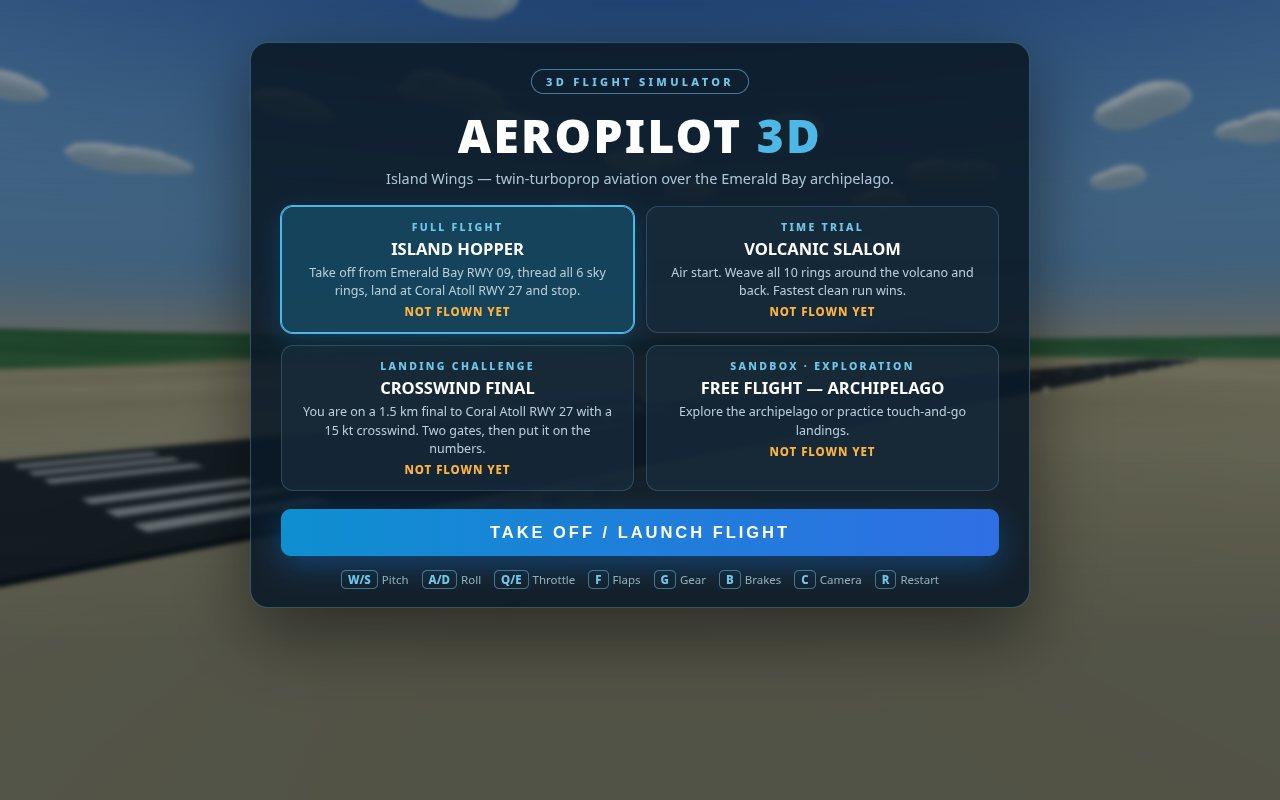
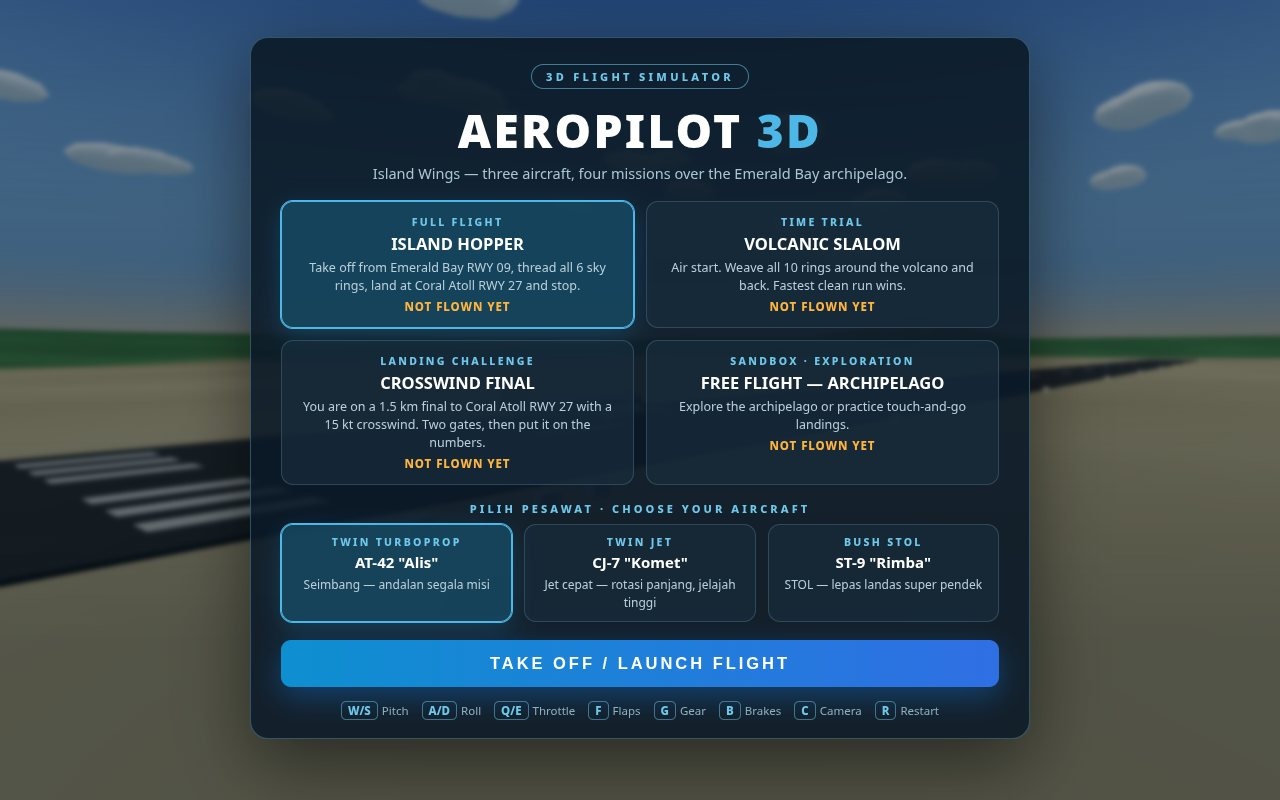
Aircraft selection: 3 flyable craft (AT-42 Alis turboprop, CJ-7 Komet jet, ST-9 Rimba STOL) with per-craft physics specs and menu selector

Changed region(s): [[0.1875, 0.625, 0.8125, 0.9688], [0.1875, 0.0312, 0.8125, 0.5938]]

diff --git a/game/src/main.js b/game/src/main.js
@@ -1,6 +1,6 @@
 // AeroPilot 3D conductor: loop, input, cameras, missions, debrief.
 import * as THREE from 'three';
-import { MISSIONS, mission, airport, threshold, PLANE } from './config.js';
+import { MISSIONS, mission, airport, threshold, PLANE, AIRCRAFT, craftSpec } from './config.js';
 import { buildWorld, setRings, paintRings, paintPapi, surfaceAt } from './world.js';
 import { buildAircraft, poseAircraft } from './aircraft.js';
 import { stepPlane } from './physics.js';
@@ -26,8 +26,16 @@ document.body.appendChild(renderer.domElement);
 const scene = new THREE.Scene();
 const camera = new THREE.PerspectiveCamera(58, innerWidth / innerHeight, 0.5, 40000);
 const world = buildWorld(scene);
-const craft = buildAircraft();
+let selectedCraft = 'alis';
+let craft = buildAircraft(craftSpec(selectedCraft));
 scene.add(craft);
+function setCraft(id) {
+  selectedCraft = id;
+  scene.remove(craft);
+  craft = buildAircraft(craftSpec(id));
+  scene.add(craft);
+  if (plane) poseAircraft(craft, plane, null);
+}
 initHud();
 
 const BEST_KEY = 'aeropilot-best-v1';
@@ -45,7 +53,7 @@ function showMenu() {
   document.getElementById('menu').style.display = 'flex';
   document.getElementById('debrief').style.display = 'none';
   const m = mission('island_hopper');
-  plane = spawnFor(m);
+  plane = spawnFor(m, craftSpec(selectedCraft));
   st = null; ap = null;
   setRings(scene, world, []);
   poseAircraft(craft, plane, null);
@@ -70,9 +78,25 @@ function buildMenu() {
   }
 }
 document.getElementById('btn-launch').onclick = () => { Sfx.init(); startMission(selectedId, false); };
+function buildCraftMenu() {
+  const wrap = document.getElementById('craft-cards');
+  wrap.innerHTML = '';
+  for (const a of AIRCRAFT) {
+    const card = document.createElement('div');
+    card.className = 'card craft' + (a.id === selectedCraft ? ' selected' : '');
+    card.dataset.id = a.id;
+    card.innerHTML = `<div class="ctype">${a.kind.toUpperCase()}</div><h3>${a.name}</h3><p>${a.tag}</p>`;
+    card.onclick = () => {
+      setCraft(a.id);
+      wrap.querySelectorAll('.card').forEach((c) => c.classList.toggle('selected', c.dataset.id === selectedCraft));
+      Sfx.init();
+    };
+    wrap.appendChild(card);
+  }
+}
 function startMission(id, autopilot) {
   const m = mission(id);
-  plane = spawnFor(m);
+  plane = spawnFor(m, craftSpec(selectedCraft));
   st = createMission(m);
   ap = createAutopilot();
   useAutopilot = autopilot;
@@ -218,6 +242,7 @@ function frame() {
 }
 
 buildMenu();
+buildCraftMenu();
 if (shot) {
   if (shot.menu) showMenu();
   else {

diff --git a/game/index.html b/game/index.html
@@ -38,7 +38,12 @@
   #hud-panel { position: absolute; bottom: 12px; left: 50%; transform: translateX(-50%); }
   #cross { position: absolute; top: 50%; left: 50%; transform: translate(-50%, -50%); color: rgba(255, 220, 150, 0.85); font-size: 15px; }
   /* Menu + debrief */
-  .overlay { position: fixed; inset: 0; display: flex; flex-direction: column; align-items: center; justify-content: center; padding-bottom: 150px; background: linear-gradient(180deg, rgba(6,20,30,0.30) 0%, rgba(6,20,30,0.55) 80%); backdrop-filter: blur(2.5px); z-index: 5; }
+  .overlay { position: fixed; inset: 0; display: flex; flex-direction: column; align-items: center; justify-content: center; padding-bottom: 24px; background: linear-gradient(180deg, rgba(6,20,30,0.30) 0%, rgba(6,20,30,0.55) 80%); backdrop-filter: blur(2.5px); z-index: 5; }
+  .craft-label { margin: 16px 0 8px; font-size: 11px; font-weight: 800; letter-spacing: 0.28em; color: #6ec8ec; }
+  .cards.craft { grid-template-columns: 1fr 1fr 1fr; }
+  .card.craft { padding: 10px 12px; }
+  .card.craft h3 { font-size: 15px; }
+  .card.craft p { min-height: 0; font-size: 12px; }
   #menu-panel { width: 780px; max-width: 94vw; padding: 26px 30px 20px; text-align: center; pointer-events: auto; border-radius: 18px; background: rgba(10, 24, 38, 0.88); border: 1px solid rgba(110, 190, 220, 0.35); box-shadow: 0 24px 70px rgba(0,0,0,0.5); }
   #menu-panel .pill { display: inline-block; font-size: 11px; font-weight: 800; letter-spacing: 0.3em; color: #6ec8ec; border: 1px solid rgba(110,200,236,0.55); border-radius: 20px; padding: 4px 14px; margin-bottom: 10px; }
   #menu-panel h1 { font-size: 46px; font-weight: 900; letter-spacing: 0.05em; color: #fff; }
@@ -99,8 +104,10 @@
     <div id="menu-panel">
       <div class="pill">3D FLIGHT SIMULATOR</div>
       <h1>AEROPILOT <span>3D</span></h1>
-      <div class="sub">Island Wings — twin-turboprop aviation over the Emerald Bay archipelago.</div>
+      <div class="sub">Island Wings — three aircraft, four missions over the Emerald Bay archipelago.</div>
       <div class="cards" id="menu-cards"></div>
+      <div class="craft-label">PILIH PESAWAT · CHOOSE YOUR AIRCRAFT</div>
+      <div class="cards craft" id="craft-cards"></div>
       <button id="btn-launch">TAKE OFF / LAUNCH FLIGHT</button>
       <div class="keys">
         <span><b>W/S</b>Pitch</span><span><b>A/D</b>Roll</span><span><b>Q/E</b>Throttle</span><span><b>F</b>Flaps</span><span><b>G</b>Gear</span><span><b>B</b>Brakes</span><span><b>C</b>Camera</span><span><b>R</b>Restart</span>

diff --git a/game/src/physics.js b/game/src/physics.js
@@ -14,11 +14,12 @@ export function angDiff(a, b) {
 
 export function stallSpeed(p) {
   const flapFactor = [1, 0.93, 0.85][p.flaps] || 1;
-  return PLANE.stall * flapFactor * (1 + p.damage * 0.002);
+  return p.spec.stall * flapFactor * (1 + p.damage * 0.002);
 }
 
-export function createPlane(spawn) {
+export function createPlane(spawn, spec) {
   return {
+    spec: spec || PLANE,
     x: spawn.x, y: spawn.y, z: spawn.z,
     heading: spawn.heading || 0, pitch: 0, bank: 0,
     speed: spawn.speed || 0, vy: 0, groundSpeed: spawn.speed || 0,
@@ -40,12 +41,12 @@ export function stepPlane(p, input, dt, groundYAt, wind) {
   if (input.throttleSet !== undefined) p.throttle = clamp(input.throttleSet, 0, 1);
   p.gearT = clamp(p.gearT + (p.gearDown ? dt / 2.2 : -dt / 2.2), 0, 1);
   const gearOut = p.gearT > 0.85;
-  const clearance = gearOut ? PLANE.gearHeight : PLANE.bellyHeight;
+  const clearance = gearOut ? p.spec.gearHeight : p.spec.bellyHeight;
   const groundY = groundYAt(p.x, p.z) + clearance;
 
   if (p.onGround) {
-    const thrustA = PLANE.thrust * p.throttle * (1 - p.damage * 0.004);
-    const dragA = PLANE.drag * p.groundSpeed * p.groundSpeed * 0.06 + (input.brake ? 5.2 : 0.3);
+    const thrustA = p.spec.thrust * p.throttle * (1 - p.damage * 0.004);
+    const dragA = p.spec.drag * p.groundSpeed * p.groundSpeed * 0.06 + (input.brake ? 5.2 : 0.3);
     p.groundSpeed = Math.max(0, p.groundSpeed + (thrustA - dragA * Math.sign(p.groundSpeed || 1)) * dt);
     if (p.throttle < 0.03 && p.groundSpeed < 0.05) p.groundSpeed = 0;
     p.speed = p.groundSpeed;
@@ -83,8 +84,8 @@ export function stepPlane(p, input, dt, groundYAt, wind) {
   p.pitch += clamp(targetPitch - p.pitch, -1.7 * pitchAuth * dt, 1.7 * pitchAuth * dt);
   if (liftFrac < 0.86) p.pitch -= (0.86 - liftFrac) * 0.55 * dt; // stall nose-drop
 
-  const thrustA = PLANE.thrust * p.throttle * (1 - p.damage * 0.004);
-  const dragK = PLANE.drag * (1 + p.flaps * 0.38) * (gearOut ? 1.22 : 1);
+  const thrustA = p.spec.thrust * p.throttle * (1 - p.damage * 0.004);
+  const dragK = p.spec.drag * (1 + p.flaps * 0.38) * (gearOut ? 1.22 : 1);
   const accel = thrustA - dragK * p.speed * p.speed * 0.055 - Math.sin(p.pitch) * 9.81 * clamp(liftFrac, 0, 1);
   p.speed = Math.max(0, p.speed + accel * dt);
 

diff --git a/game/src/aircraft.js b/game/src/aircraft.js
@@ -8,10 +8,11 @@ function mat(color, rough = 0.45, metal = 0.35) {
 function box(w, h, d, m) { const x = new THREE.Mesh(new THREE.BoxGeometry(w, h, d), m); return x; }
 function cyl(rt, rb, h, m, seg = 14) { const x = new THREE.Mesh(new THREE.CylinderGeometry(rt, rb, h, seg), m); return x; }
 
-export function buildAircraft() {
+export function buildAircraft(spec) {
+  const S = spec || PLANE;
   const g = new THREE.Group();
-  const body = mat(PLANE.colorBody), accent = mat(PLANE.colorAccent, 0.4, 0.4),
-    tailM = mat(PLANE.colorTail, 0.45, 0.3), dark = mat(0x1c2733, 0.25, 0.5),
+  const body = mat(S.colorBody), accent = mat(S.colorAccent, 0.4, 0.4),
+    tailM = mat(S.colorTail, 0.45, 0.3), dark = mat(0x1c2733, 0.25, 0.5),
     tyre = mat(0x14161a, 0.9, 0), hub = mat(0xb9c0c7, 0.35, 0.7);
 
   // Fuselage (nose +z), origin at CG
@@ -29,9 +30,9 @@ export function buildAircraft() {
   const ailerons = [];
   for (const s of [-1, 1]) {
     const half = new THREE.Group();
-    const w = box(PLANE.span / 2, 0.32, 2.7, body); w.position.x = s * PLANE.span / 4; half.add(w);
-    const ail = box(4.6, 0.16, 0.85, accent); ail.position.set(s * (PLANE.span / 2 - 2.6), 0, -1.65);
-    const pivot = new THREE.Group(); pivot.position.set(s * (PLANE.span / 2 - 2.6), 0, -1.25); pivot.add(ail); ail.position.set(0, 0, -0.42);
+    const w = box(S.span / 2, 0.32, 2.7, body); w.position.x = s * S.span / 4; half.add(w);
+    const ail = box(4.6, 0.16, 0.85, accent); ail.position.set(s * (S.span / 2 - 2.6), 0, -1.65);
+    const pivot = new THREE.Group(); pivot.position.set(s * (S.span / 2 - 2.6), 0, -1.25); pivot.add(ail); ail.position.set(0, 0, -0.42);
     half.add(pivot); ailerons.push({ pivot, side: s });
     half.position.set(0, -0.55, 0.6);
     half.rotation.z = s * 0.055;
@@ -76,10 +77,11 @@ export function buildAircraft() {
   for (const s of [-1, 1]) {
     const l = new THREE.Mesh(new THREE.SphereGeometry(0.22, 6, 6),
       new THREE.MeshBasicMaterial({ color: s < 0 ? 0xff3524 : 0x2aff5a }));
-    l.position.set(s * PLANE.span / 2, -0.4, 0.6);
+    l.position.set(s * S.span / 2, -0.4, 0.6);
     g.add(l);
   }
   g.userData.parts = { ailerons, rudPivot, elevPivot, gear };
+  g.scale.setScalar(S.scale || 1);
   return g;
 }
 

diff --git a/game/src/config.js b/game/src/config.js
@@ -4,18 +4,22 @@ export const KT = 1.94384;      // m/s -> knots
 export const FPM = 196.85;      // m/s -> feet per minute
 export const FT = 3.28084;      // m -> feet
 
-export const PLANE = {
-  name: 'AT-42 "Alis" Twin Turboprop',
-  stall: 33,            // m/s, clean (64 kt)
-  rotate: 39,           // m/s (76 kt)
-  thrust: 4.35,         // m/s^2 at full throttle, sea level
-  drag: 0.0038,
-  mass: 14500,
-  gearHeight: 3.1,      // CG height on gear
-  bellyHeight: 1.35,    // CG height gear-up
-  bodyLen: 19, span: 24.5,
-  colorBody: 0xf2f0ea, colorAccent: 0x0e7d8a, colorTail: 0xe2703a
-};
+export const AIRCRAFT = [
+  { id: 'alis', name: 'AT-42 "Alis"', kind: 'Twin Turboprop', tag: 'Seimbang — andalan segala misi',
+    stall: 33, rotate: 39, thrust: 4.35, drag: 0.0038,
+    gearHeight: 3.1, bellyHeight: 1.35, bodyLen: 19, span: 24.5, scale: 1,
+    colorBody: 0xf2f0ea, colorAccent: 0x0e7d8a, colorTail: 0xe2703a },
+  { id: 'komet', name: 'CJ-7 "Komet"', kind: 'Twin Jet', tag: 'Jet cepat — rotasi panjang, jelajah tinggi',
+    stall: 44, rotate: 52, thrust: 6.4, drag: 0.0029,
+    gearHeight: 3.3, bellyHeight: 1.5, bodyLen: 21, span: 22, scale: 1.06,
+    colorBody: 0xf5f5f7, colorAccent: 0xb02020, colorTail: 0x22262e },
+  { id: 'rimba', name: 'ST-9 "Rimba"', kind: 'Bush STOL', tag: 'STOL — lepas landas super pendek',
+    stall: 23, rotate: 28, thrust: 3.5, drag: 0.0048,
+    gearHeight: 2.7, bellyHeight: 1.2, bodyLen: 16, span: 21, scale: 0.88,
+    colorBody: 0xc9a227, colorAccent: 0x2e4a2a, colorTail: 0x2e4a2a }
+];
+export function craftSpec(id) { return AIRCRAFT.find(a => a.id === id) || AIRCRAFT[0]; }
+export const PLANE = AIRCRAFT[0];
 
 // headingRad: the direction the runway strip runs (its long axis).
 // landHeading: the heading flown when landing on the named runway.

diff --git a/game/src/missions.js b/game/src/missions.js
@@ -3,20 +3,20 @@ import { airport, threshold } from './config.js';
 import { createPlane, stallSpeed } from './physics.js';
 import { overRunway } from './geo.js';
 
-export function spawnFor(m) {
+export function spawnFor(m, spec) {
   if (m.customSpawn) {
     const s = m.customSpawn;
-    return createPlane({ x: s.x, y: s.y, z: s.z, heading: s.heading, speed: s.speed, throttle: s.throttle, gearDown: s.gearDown, flaps: s.flaps, onGround: false });
+    return createPlane({ x: s.x, y: s.y, z: s.z, heading: s.heading, speed: s.speed, throttle: s.throttle, gearDown: s.gearDown, flaps: s.flaps, onGround: false }, spec);
   }
   const ap = airport(m.startAirport);
   if (m.forceAirStart) {
-    return createPlane({ x: -200, y: 260, z: 0, heading: Math.PI / 2, speed: 75, throttle: 0.72, gearDown: false, flaps: 0, onGround: false });
+    return createPlane({ x: -200, y: 260, z: 0, heading: Math.PI / 2, speed: 75, throttle: 0.72, gearDown: false, flaps: 0, onGround: false }, spec);
   }
   const dx = Math.sin(ap.landHeading), dz = -Math.cos(ap.landHeading);
   return createPlane({
-    x: ap.x - dx * (ap.length / 2 - 60), y: ap.elev + 3.1, z: ap.z - dz * (ap.length / 2 - 60),
+    x: ap.x - dx * (ap.length / 2 - 60), y: ap.elev + (spec ? spec.gearHeight : 3.1), z: ap.z - dz * (ap.length / 2 - 60),
     heading: ap.landHeading, speed: 0, throttle: 0, gearDown: true, flaps: 0, onGround: true
-  });
+  }, spec);
 }
 
 export function createMission(m) {

diff --git a/game/src/hud.js b/game/src/hud.js
@@ -25,7 +25,7 @@ export function updateHud(st, p, alert, target, brake) {
     el.wind.textContent = `WIND ${Math.round(Math.hypot(st.m.wind.x, st.m.wind.z) * KT)} KT`;
   }
   el.spd.textContent = fmt(p.speed * KT, 3);
-  el.alt.textContent = fmt(Math.max(0, (p.y - 3.1)) * FT, 5);
+  el.alt.textContent = fmt(Math.max(0, (p.y - p.spec.gearHeight)) * FT, 5);
   const vs = p.onGround ? 0 : p.vy * FPM;
   el.vs.textContent = (vs >= 0 ? '+' : '−') + fmt(Math.abs(vs), 4);
   let hdg = Math.round(p.heading * 180 / Math.PI) % 360; if (hdg < 0) hdg += 360;

diff --git a/entry-status.md b/entry-status.md
@@ -13,7 +13,19 @@
 - Kit check: 15 passed, 0 failed — thinking_reproduces 1,110/1,124 authored (98.7%).
 - Dossier: double-run byte-identical; clean-room clone of HEAD byte-identical.
   dossier.json 570,645 B.
-- Sim proof (`node sim6.mjs`): 3/3 scored missions complete under autopilot —
+- UI UPGRADE Thu 2026-11-26 ~19:12 WIB (owner order "Yaudah upgrade" after  running the Gemini original himself and rating its graphics good; Muse ran
+  the original too — its menu/UI polish is genuinely better, its in-flight
+  world flatter): menu rebuilt as a glass panel (pill, 2x2 mission cards with
+  type labels + selected state, LAUNCH button, key-cap chips; click selects,
+  Enter/double-click launches), HUD gains a heading-up radar scope (airport +
+  ring blips), WP distance in NM, vertical THR bar with %, BRAKE chip.
+  New HEAD `d69b2decc070efbde0747636ff61279bbb1d5ecf` (pushed, remote verified);
+  sim still 3/3 (hopper BUTTER 157 fpm, slalom 10/10, final BUTTER 164 fpm);
+  screenshots re-shot (1-menu 93,865 B · 2-takeoff 78,172 B · 3-rings 84,727 B ·
+  4-landing 86,001 B); dossier 522,917 B double-run + clean-room identical;
[1 lines of base64/hex data omitted]
+  kit check 15 passed, 0 failed (authorship 93.5%). Still NOT SUBMITTED —
+  submit command below now uses commit d69b2de.- Sim proof (`node sim6.mjs`): 3/3 scored missions complete under autopilot —
   island_hopper 158 s, 6/6 rings, BUTTER 157 fpm, stops on Coral RWY;
   canyon_slalom 10/10 rings; final_approach BUTTER 164 fpm in a 15 kt crosswind.
 - Screenshots (1280x800, <=256 KiB): 1-menu 106,321 B · 2-takeoff 85,996 B ·
@@ -22,6 +34,16 @@
   owner's submit word. Submitting moves the final pick off V2 (SKYWARD FURY
   re-submission `01a215d0-f36f-719c-85bf-cc5aa25f3650`).
 - Submit command (from `~/workspace/makefun/flight-game/kit`):
-  `node cli/makefun.mjs submit --competition best-flight-game-20261126-0057 --source ~/workspace/makefun/flight-game6 --commit 19ad551d0a7202be889704bd833712400c93c59b --bundle ~/workspace/makefun/flight6-bundle.tar.gz --keypair ~/workspace/makefun/makefun-keypair.json`
+  `node cli/makefun.mjs submit --competition best-flight-game-20261126-0057 --source ~/workspace/makefun/flight-game6 --commit d69b2decc070efbde0747636ff61279bbb1d5ecf --bundle ~/workspace/makefun/flight6-bundle.tar.gz --keypair ~/workspace/makefun/makefun-keypair.json`
   then move the final pick to the new submission and verify by read-back.
 - Deadline: Sat 2026-11-28 07:57 WIB.
+- SUBMITTED Thu 2026-11-26 19:12 WIB at the owner's word ("Submit V6 jadikan
+  counting"): submission `01a217c5-a317-70b2-9418-b87df722cf3d`, claim code
+  AF-J88XK-G5GQX-AW1AY-DGYMN (this memo only, never chat). Stage "checked"
+  (verified by read-back). The owner then said "Jangan dulu" — the final pick
+  was NOT moved: read-back shows final_pick still = V2 `01a215d0…` (picked
+  2026-11-26T03:06:41Z), so V2 remains the counting entry until he orders the
+  pick moved. Quota after submit: entries made 4, left today 2 of 6.
+- Owner feedback 19:13 WIB: "Tambah opsi bisa milih pesawat — masa cuma 1":
+  aircraft selection being added (3 craft) as a new build on top of d69b2de;
+  NOT submitted until he says so.
